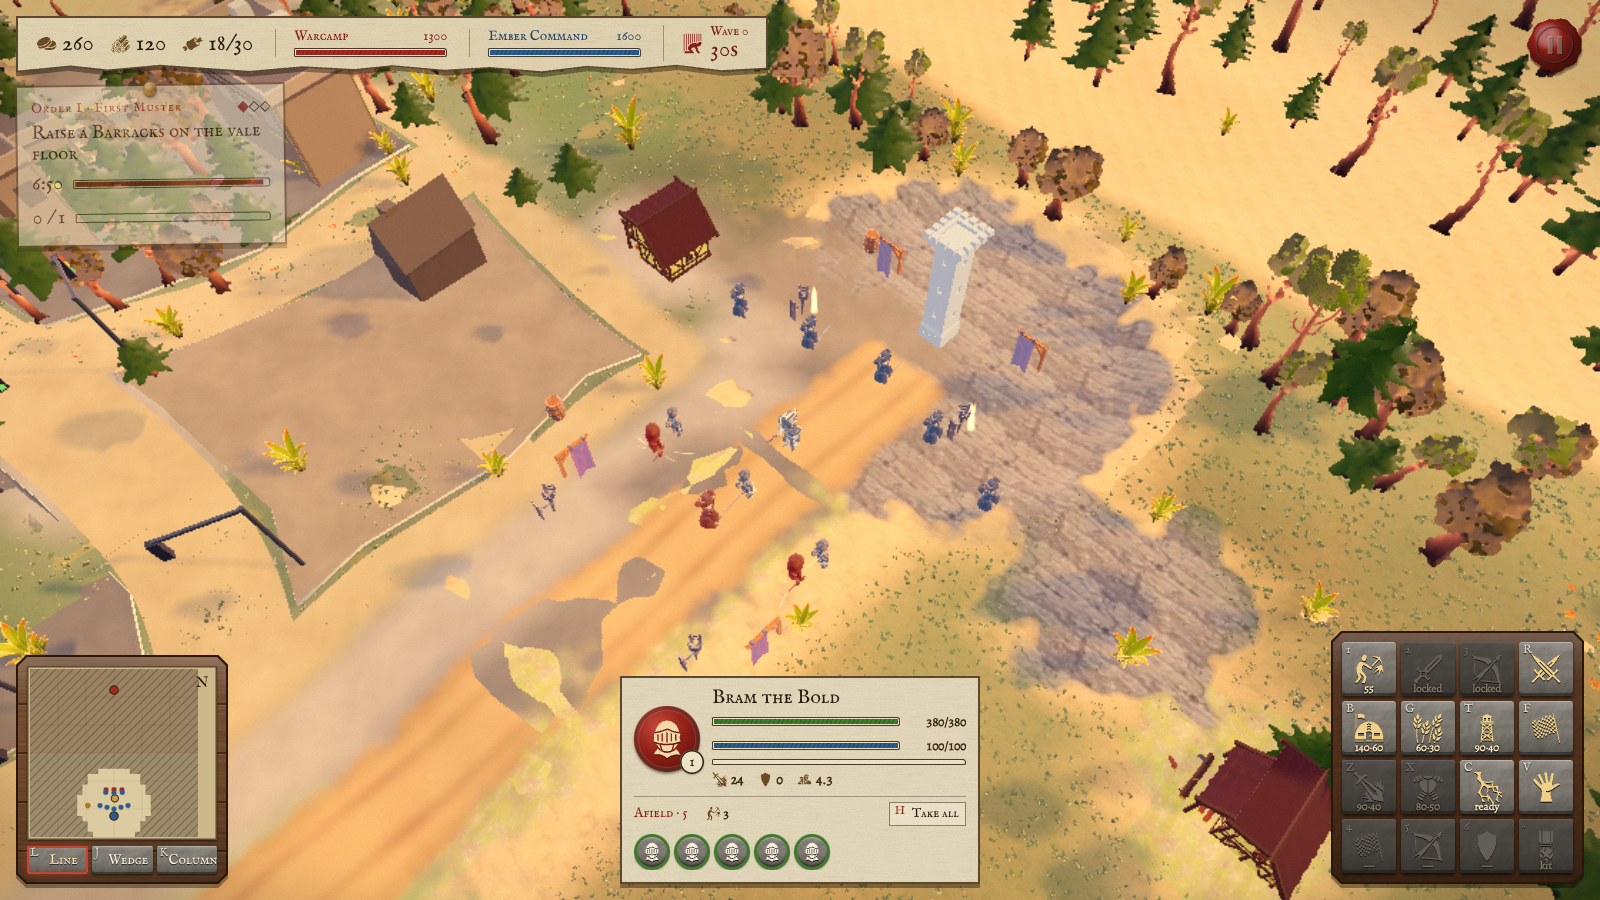
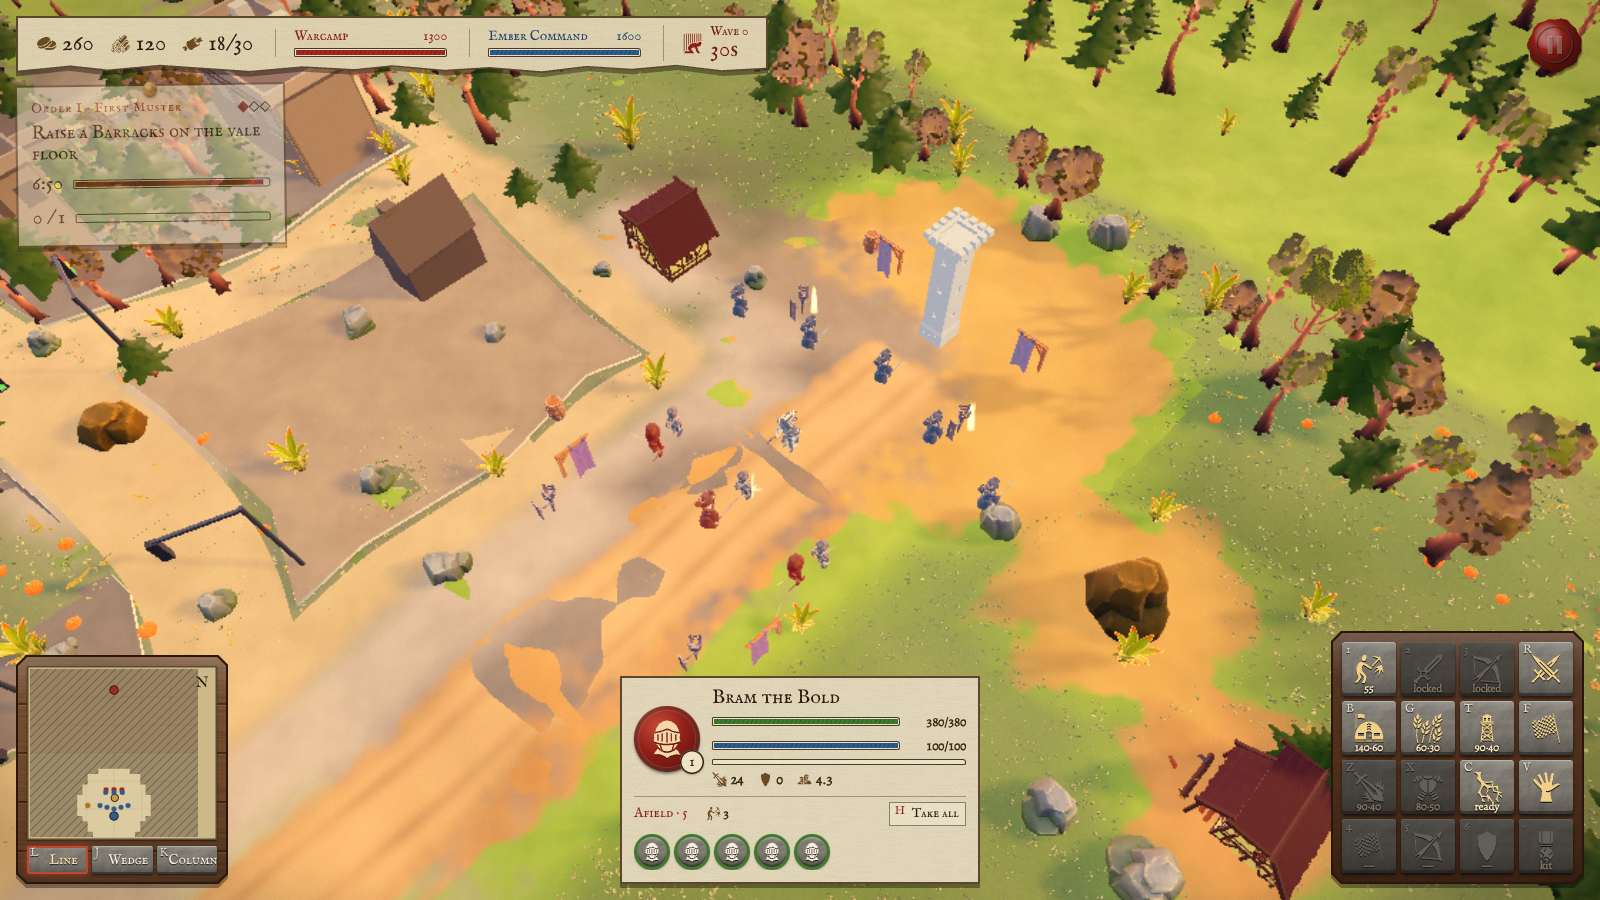
Fixed: the dev server config no longer imports the material library, and Ember Command's terrain takes its ground from library surfaces

diff --git a/games/shared/provisionAssets.ts b/games/shared/provisionAssets.ts
@@ -5,7 +5,6 @@ import { basename, extname, join, normalize, resolve, sep } from "node:path";
 import { fileURLToPath } from "node:url";
 
 import { assetStoreRoot, dirHasEntries, provisionJobs, type ProvisionResult, type PullJob } from "../../packages/assets/src/assetStore";
-import { MATERIAL_LIBRARY } from "../../packages/assets/src/catalogs/materialLibrary";
 import { compressedVariant, textureVariantDir } from "./textureVariants";
 
 const assetsDir = fileURLToPath(new URL("../../packages/assets", import.meta.url));
@@ -20,6 +19,8 @@ export interface AssetCatalogs {
   aliases?: readonly { key: string; target: string }[];
   /** Shared-library keys (`gameicons:lorc/wheat`, `polyhaven:ArmChair_01`): what to pull and where it is served. */
   libraryPull?: (key: string) => LibraryPullJob | undefined;
+  /** Library surfaces (`foliage/grass-dry`) and the material pack each is scanned from, so naming one serves its maps. Loaded lazily: the library imports `@jgengine/core`, which the vite config must not pull in. */
+  materials?: readonly { name: string; source?: string | undefined }[];
   /** Curated HDRIs, colour grades and fonts a game's source names by id (`hdriEnvironment("golden-hour")`). */
   lookJobs?: (text: string) => readonly { target: string; dir: string }[];
 }
@@ -51,7 +52,7 @@ export function missingPulls(text: string, publicDir: string, catalogs: AssetCat
   const quoted = (id: string): boolean => text.includes(`"${id}"`) || text.includes(`'${id}'`);
   const aliased = new Set((catalogs.aliases ?? []).filter((alias) => quoted(alias.key)).map((alias) => alias.target.split("/")[0]!));
   const jobs: PullJob[] = [];
-  const named = new Set(MATERIAL_LIBRARY.filter((entry) => entry.source !== undefined && quoted(entry.name)).map((entry) => entry.source));
+  const named = new Set((catalogs.materials ?? []).filter((entry) => entry.source !== undefined && quoted(entry.name)).map((entry) => entry.source));
   for (const source of catalogs.sources) {
     if (!quoted(source.id) && !aliased.has(source.id) && !named.has(source.id)) continue;
     const subdir = source.kind === "material" ? "materials" : source.kind === "sprite" ? "sprites" : "models";
@@ -112,6 +113,7 @@ export async function loadCatalogs(): Promise<AssetCatalogs> {
     MODEL_LIBRARY?: AssetCatalogs["library"];
     aliases?: AssetCatalogs["aliases"];
   };
+  const materialLibrary: { MATERIAL_LIBRARY: NonNullable<AssetCatalogs["materials"]> } = await import(join(assetsDir, "src/catalogs/materialLibrary.ts"));
   const index: typeof import("../../packages/assets/src/library/libraryIndex") = await import(join(assetsDir, "src/library/libraryIndex.ts"));
   const served: typeof import("../../packages/assets/src/library/libraryServed") = await import(join(assetsDir, "src/library/libraryServed.ts"));
   const byKey = new Map(index.assetLibrary().map((entry) => [entry.key, entry]));
@@ -122,7 +124,7 @@ export async function loadCatalogs(): Promise<AssetCatalogs> {
     return { target: entry.pack ?? entry.key, dir: join(...path.dir.split("/")), url: path.url };
   };
   const curated: typeof import("../../packages/assets/src/catalogs/curatedPull") = await import(join(assetsDir, "src/catalogs/curatedPull.ts"));
-  return { sources: module.sources, library: module.MODEL_LIBRARY ?? [], aliases: module.aliases ?? [], libraryPull, lookJobs: curated.curatedJobsIn };
+  return { sources: module.sources, library: module.MODEL_LIBRARY ?? [], aliases: module.aliases ?? [], materials: materialLibrary.MATERIAL_LIBRARY, libraryPull, lookJobs: curated.curatedJobsIn };
 }
 
 function runPull(cwd: string, target: string, outRoot: string): Promise<boolean> {

diff --git a/games/ember-command/src/world.ts b/games/ember-command/src/world.ts
@@ -1,3 +1,4 @@
+import { libraryTerrainSurface } from "@jgengine/assets/catalogs/materialLibrary";
 import { clearanceZonesFrom } from "@jgengine/core/scatter/scatterRegion";
 import { editorLayers } from "./editorLayers";
 import type { PhysicsConfig } from "@jgengine/core/game/defineGame";
@@ -15,7 +16,7 @@ export const world: EnvironmentWorldFeature = environment({
     seed: "ember-command-vale",
     segments: 240,
     material: "highland",
-    colors: { low: "#4c6a31", high: "#728b40", waterline: "#3d5a4a" },
+    colors: { low: "#6f7a3a", high: "#8a8a42", waterline: "#3d5a4a" },
     // Push snow off-world so the detail shader reads as pure grass → rock relief.
     detail: {
       rockColor: "#6b6157",
@@ -26,6 +27,12 @@ export const world: EnvironmentWorldFeature = environment({
       macroScale: 26,
       roughness: 0.95,
       strength: 0.45,
+      // ambientCG scans: Grass004 meadow under the autumn tint, packed dirt for the war road, Rock022 on cliffs.
+      surfaces: {
+        ground: libraryTerrainSurface("foliage/grass-dry", { tile: 4, tint: 0.55 }),
+        sand: libraryTerrainSurface("ground/packed-dirt", { tile: 3, tint: 0.6 }),
+        rock: libraryTerrainSurface("ground/rock", { tile: 6 }),
+      },
     },
   }),
   // Colours, sun and haze come from the game's `mood`.
